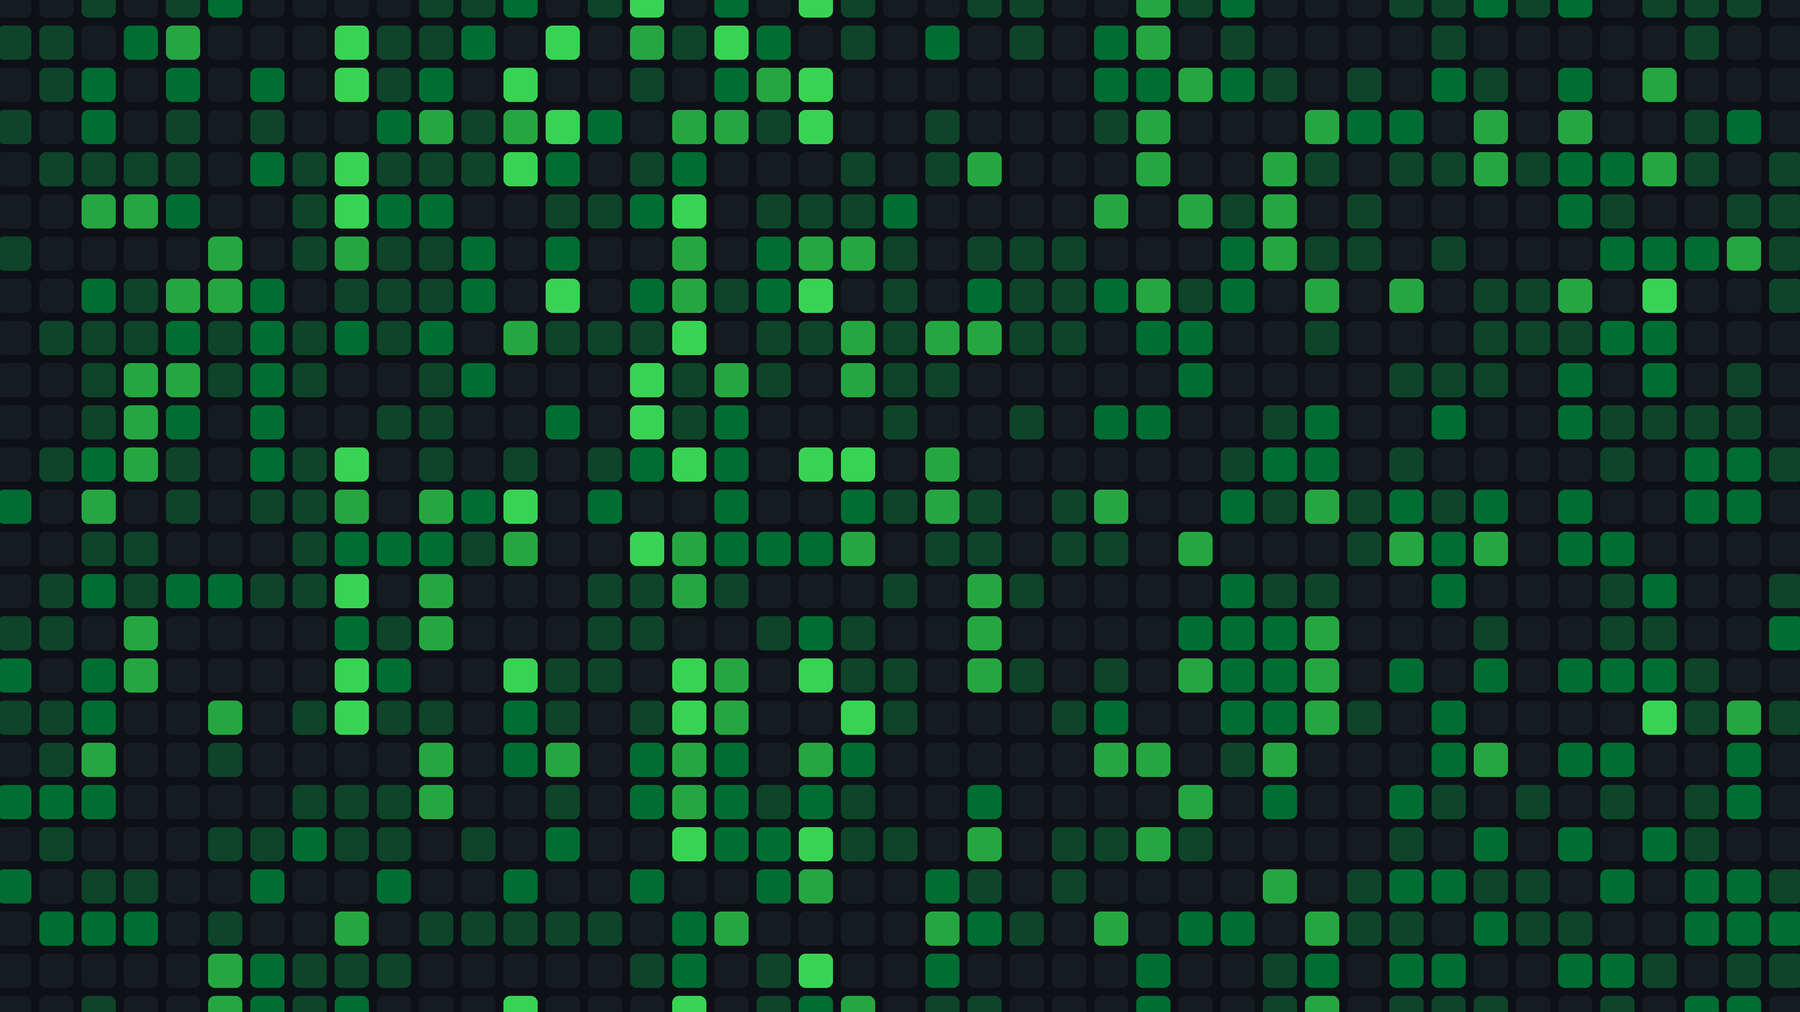
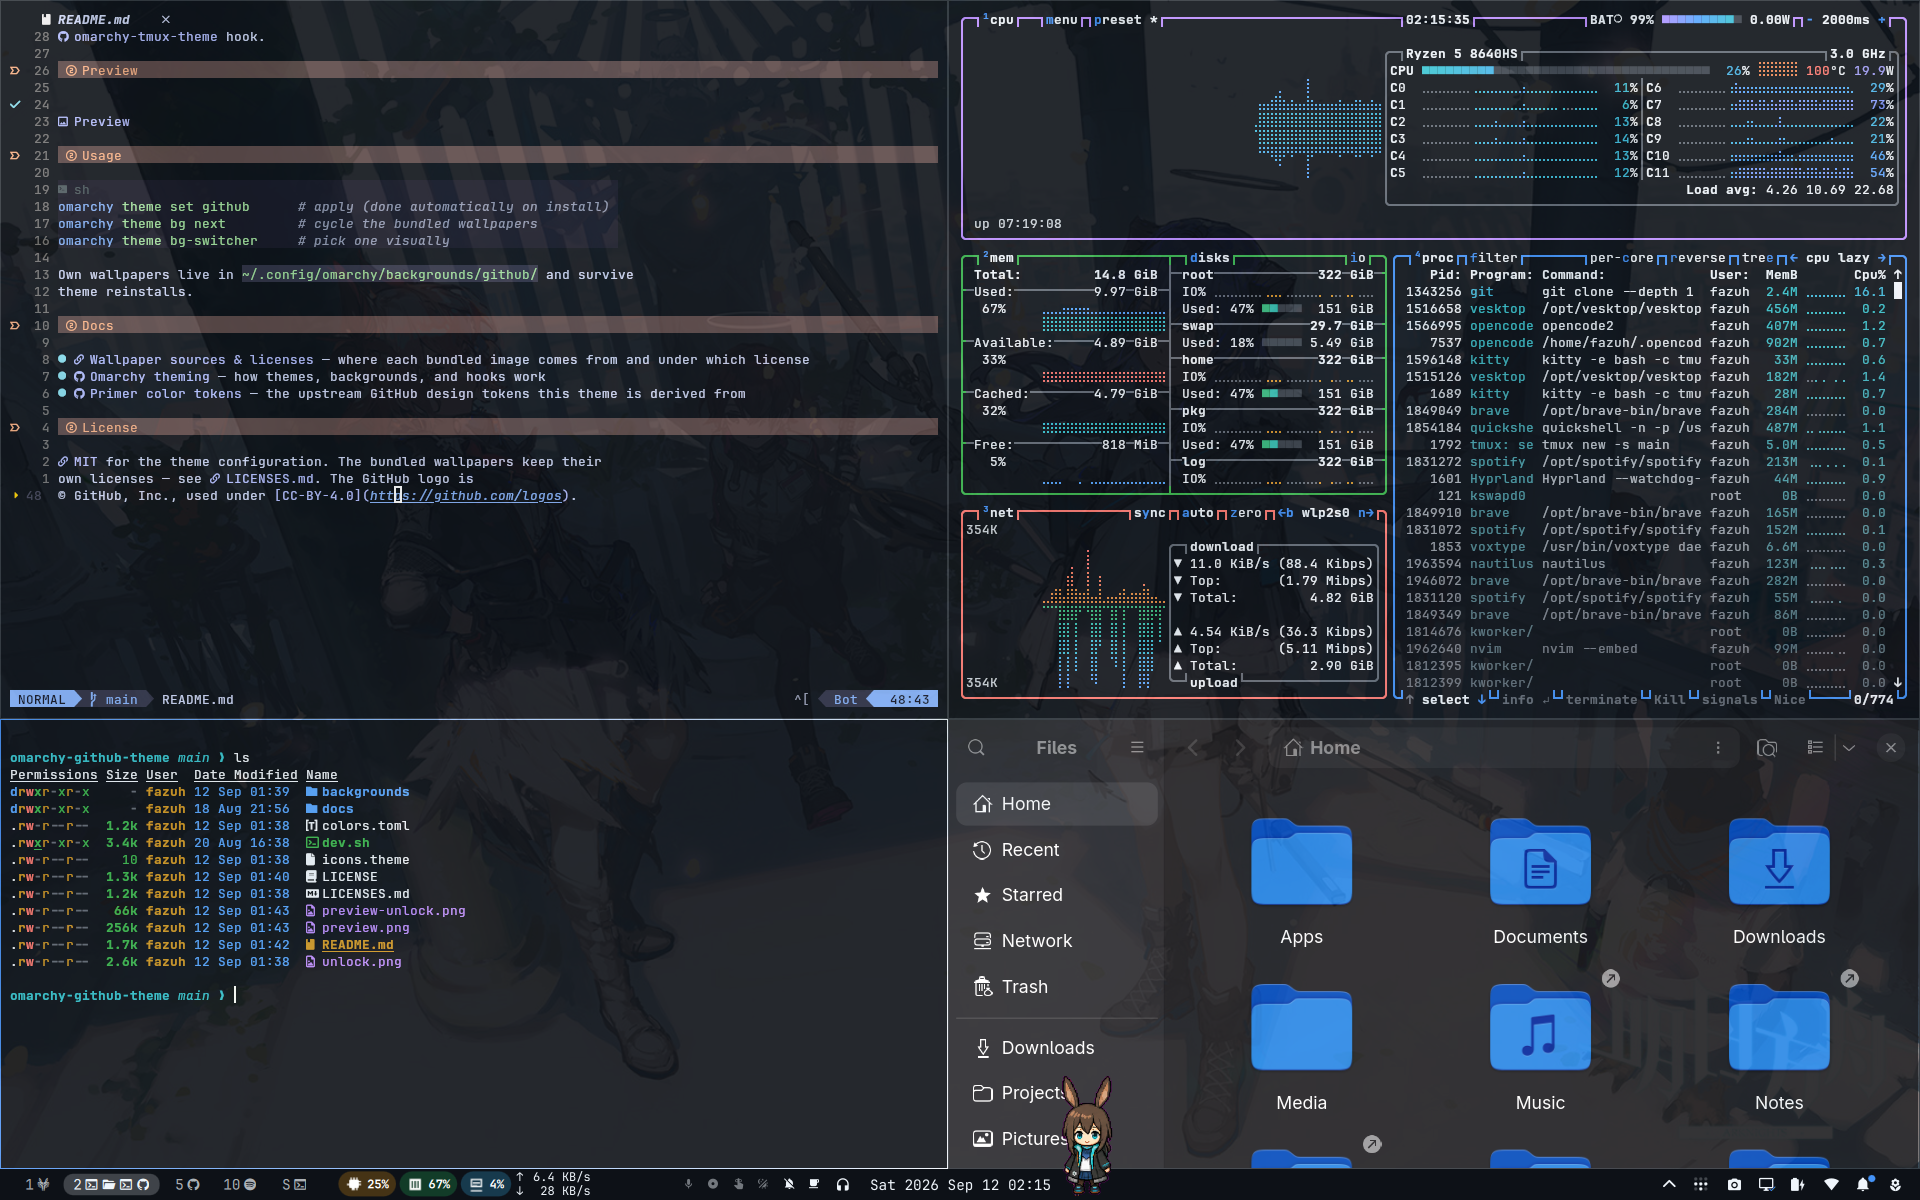
feat: bundle personal wallpaper set, renamed to match content

diff --git a/LICENSES.md b/LICENSES.md
@@ -1,22 +1,18 @@
-# Background sources & licenses
+# Bundled wallpapers — sources & rights
 
-Generated locally (no external rights):
-- `4-contributions-classic.png`, `5-contributions-bold.png`, `6-contributions-hustle.png`
-  — procedural GitHub contribution-graph heatmaps (official dark palette)
-- `7-octocat.png` — GitHub Mark (github.githubassets.com logos page), recolored;
-  GitHub logo © GitHub, Inc., used per https://github.com/logos (CC-BY-4.0)
+The wallpapers in `backgrounds/` are **not** MIT-licensed. They are curated
+art bundled at the repo owner's discretion; all rights stay with their
+respective owners. Remove `backgrounds/` if you redistribute this theme.
 
-Downloaded from Wikimedia Commons, color-inverted for dark mode:
-- `0-bevis-star-chart.jpg` — "1750 star chart … John Bevis' Celestial Atlas" (public domain)
-- `1-leo-star-chart.jpg` — "1776 star chart of the constellation Leo, from Fortin's Atlas
-  Celeste de Flamsteed" (public domain)
-- `2-turner-moon-water.jpg` — "The Full Moon over Water", William Turner, c.1823–6,
-  Tate Britain (public domain)
-- `9-old-book-bindings.jpg` — "Old book bindings" by UK Government (public-domain scan),
-  CC BY-SA 3.0 via Wikimedia Commons
+| File | What it is | Owner |
+|---|---|---|
+| `0-arknights-wetland-dusk.jpg` | Arknights key art — operators in a wetland at dusk | Hypergryph / Yostar |
+| `1-arknights-terrace-city.jpg` | Arknights key art — sunlit terrace, game logo visible | Hypergryph / Yostar |
+| `2-arknights-misty-valley.jpeg` | Arknights title art, 明日方舟 logo | Hypergryph / Yostar |
+| `3-arknights-snowy-alley-wolf.jpeg` | Arknights art — operator with a white wolf, snowy alley | Hypergryph / Yostar |
+| `4-shrine-maiden-clouds.png` | Anime shrine maiden drifting among ribbons | unknown artist |
+| `5-fishing-crew-deck.jpeg` | Photo — crew on a storm-tossed deck | unknown photographer |
 
-Used as-is:
-- `3-chasseral-full-moon.jpg` — "Full Moon rising behind Chasseral during sunset"
-  by Giles Laurent, CC BY-SA 4.0
-- `8-seattle-blueprint.jpg` — "Seattle - University Bridge blueprint, 1915", CC BY 2.0
-  (Flickr, City of Seattle Community Tech Alliance)
+`0`–`3` depict characters from the mobile game *Arknights*. `4` and `5` have
+unverified provenance — if you hold rights to either, open an issue and they
+will be removed.

diff --git a/README.md b/README.md
@@ -37,12 +37,11 @@ theme reinstalls.
 
 ## Docs
 
-- [Wallpaper sources & licenses](LICENSES.md) — where each bundled image comes from and under which license
+- [Wallpaper sources & rights](LICENSES.md) — what the bundled images are and who owns them
 - [Omarchy theming](https://github.com/basecamp/omarchy/blob/main/docs/theming.md) — how themes, backgrounds, and hooks work
 - [Primer color tokens](https://github.com/primer/primitives) — the upstream GitHub design tokens this theme is derived from
 
 ## License
 
-[MIT](LICENSE) for the theme configuration. The bundled wallpapers keep their
-own licenses — see [LICENSES.md](LICENSES.md). The GitHub logo is
-© GitHub, Inc., used under [CC-BY-4.0](https://github.com/logos).
+[MIT](LICENSE) for the theme configuration. The bundled wallpapers are
+third-party art — rights remain with their owners, see [LICENSES.md](LICENSES.md).
